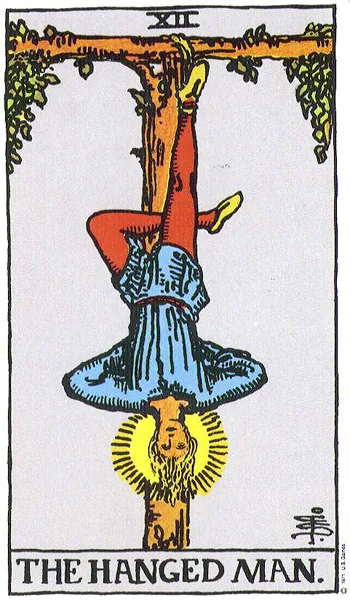
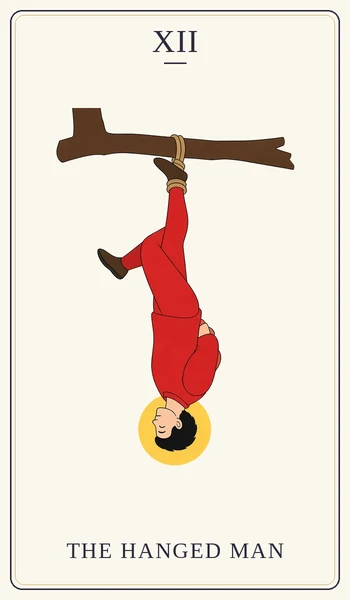
타로 카드 22장을 새 디자인으로 교체 (공통 틀 · 숫자 밑줄)
- 새 그림에 같은 테두리 · 숫자 · 이름을 입혀 22장을 통일, 배경색 맞춤
- 숫자 밑 짧은 밑줄로 역방향일 때 IX · XI 등을 구분, 용량 1.6MB → 0.5MB, sw.js v55

Claude-Session: https://claude.ai/code/session_01CejgdCEvVFe5bFKzvk618i

diff --git a/public/sw.js b/public/sw.js
@@ -1,5 +1,5 @@
 // 화면(HTML·JS·CSS)은 네트워크 우선, 그림(assets·icons·vendor)은 한 번 받으면 기기에 저장해 다시 씁니다.
-const CACHE = 'leelmell-v54'
+const CACHE = 'leelmell-v55'
 
 self.addEventListener('install', () => self.skipWaiting())
 self.addEventListener('activate', (e) => {
